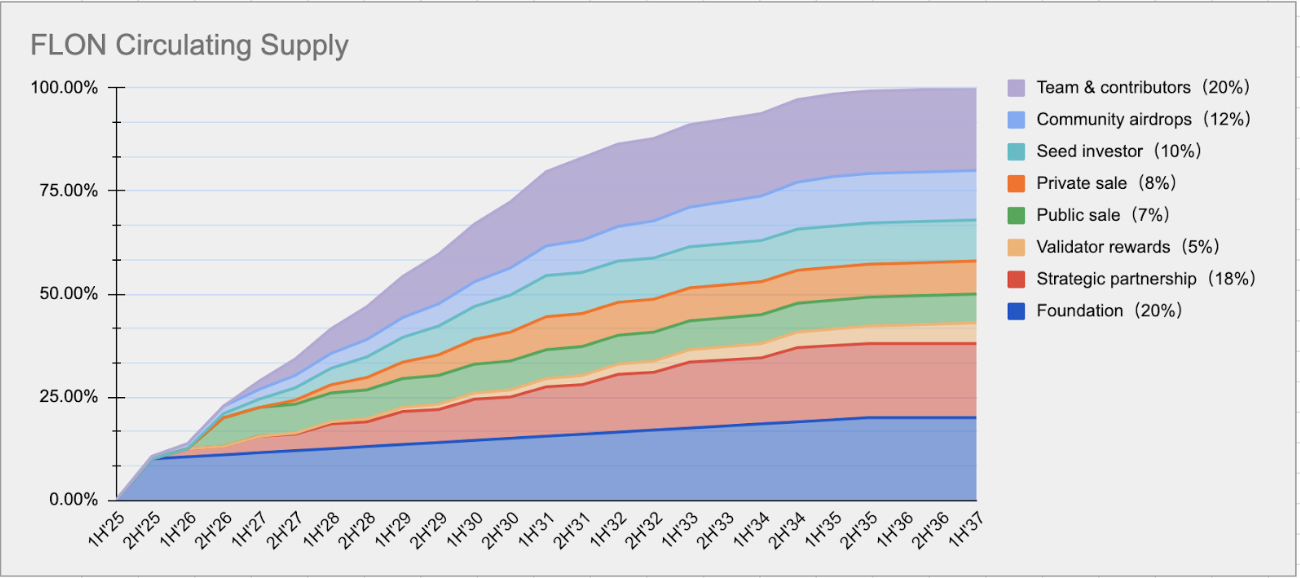
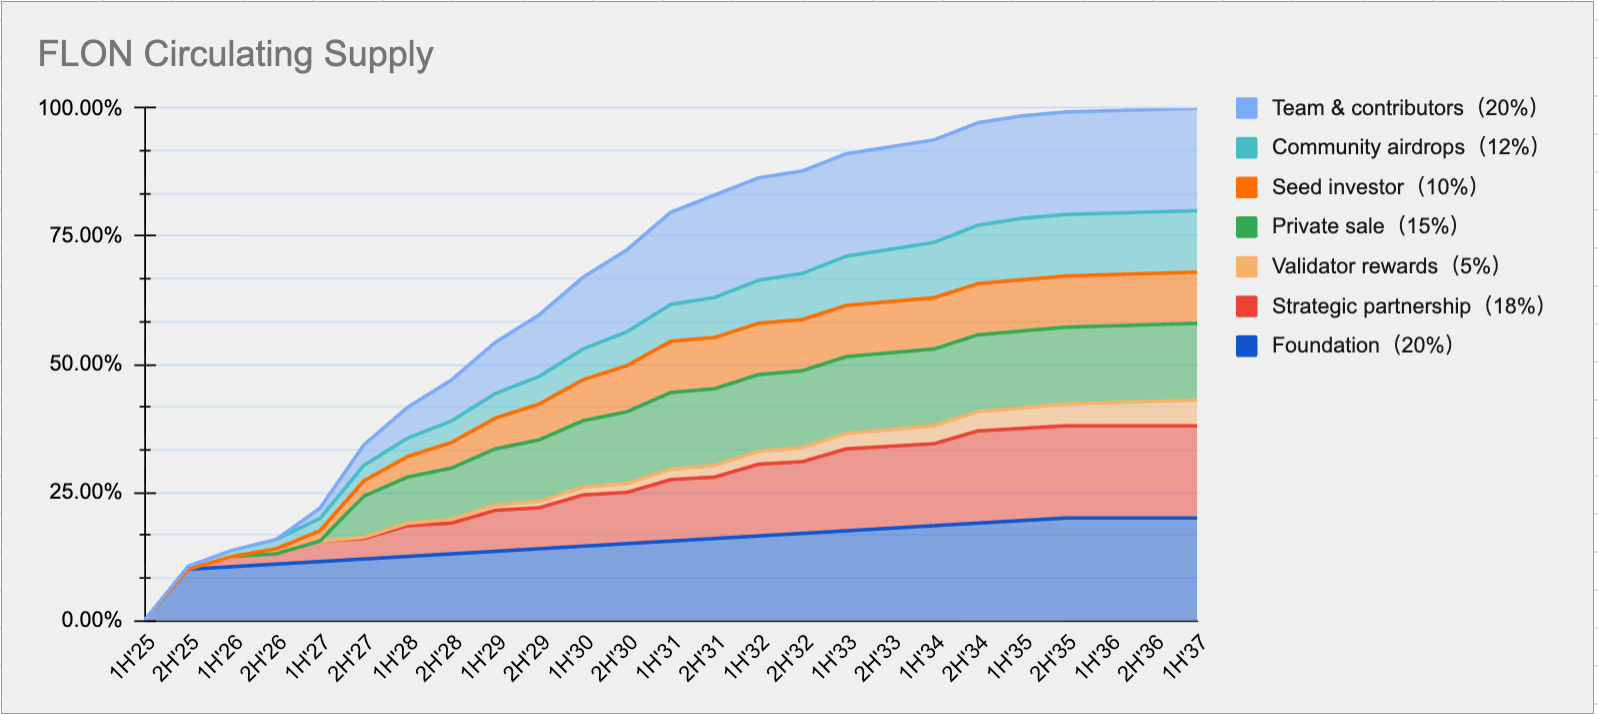
update circulation & distribution

diff --git a/fullon.whitepaper.md b/fullon.whitepaper.md
@@ -47,7 +47,7 @@ Email: fullonlabs @ gmail dot com
 
 # 01. Abstract
 
-**FullOn** is a layer-1 decentralization protocol, positioned to become the leading platform for real-world applications in the Web3, A.I., and Metaverse ecosystems — with a special focus on revolutionizing the music industry as a dedicated public chain for global creators, fans, and participants.
+**FullOn** is a layer-1 decentralization protocol, positioned to become the leading platform for real-world applications in the Web3, A.I., and Metaverse ecosystems — with a special focus on revolutionizing the **music** industry as a dedicated public chain for global creators, fans, and participants.
 
 Designed to serve mass adoption, FullOn prioritizes scalability, usability, interoperability, security, and true decentralization, empowering the next generation of music experiences where artists, listeners, and the entire music economy can thrive on-chain.
 
@@ -356,8 +356,7 @@ However, not all FLON tokens are available yet. There will be FLON token release
 | Team and contributors   | 20%   | 0%         | 1.5-year cliff, 5-year linear vesting after TGE               |
 | Community airdrop       | 12%   | 0%         | 1.2% × 10 years, 1-year linear vesting (DID required)         |
 | Seed investors          | 10%   | 0%         | 1.5-year cliff, 5-year linear vesting after TGE               |
-| Private sale            | 8%    | 0%         | 1.5-year cliff, 4-year linear vesting after investment       |
-| Public sale             | 7%    | 0%         | N/A                                                           |
+| Private sale            | 15%    | 0%         | 1.5-year cliff, 4-year linear vesting after investment       |
 | Validator rewards       | 5%    | 0%         | N/A                                                           |
 | Strategic partnership   | 18%   | 0%         | Conditional release                                           |
 | Foundation              | 20%   | 10%        | 10%: 10-year linear vesting after TGE                         |
@@ -406,15 +405,12 @@ There are 10% of the total supply, i.e.1,000,000,000 FLON tokens allocated in th
 
 ### Private sale
 
-There are 8% of the total supply, i.e. 800,000,000 FLON tokens allocated in this category. FullOn raises from backers that can meet following conditions:
+There are 15% of the total supply, i.e. 1,500,000,000 FLON tokens allocated in this category. FullOn raises from backers that can meet following conditions:
 1. Long-term success oriented
 1. Able to add value to both the project (E.g. via actively supporting the team, helping listing the tokens in top exchanges) and the network (E.g. via validating or delegating stake).
 1. No single player should control an undue amount of stake
 
 The backers have the 4-year linear vesting schedule with an 18-month cliff after their investment date.
-
-## Public sale
-There are 7% of the total supply, i.e. 700,000,000 FLON tokens allocated in this category. Top exchanges, be it centralized ones or decentralized ones built on top of FullOn network itself can list FLON  to let traders publicly trade for the first time to get the initial tranche of FLON tokens.
 
 ### Validators rewards
 
